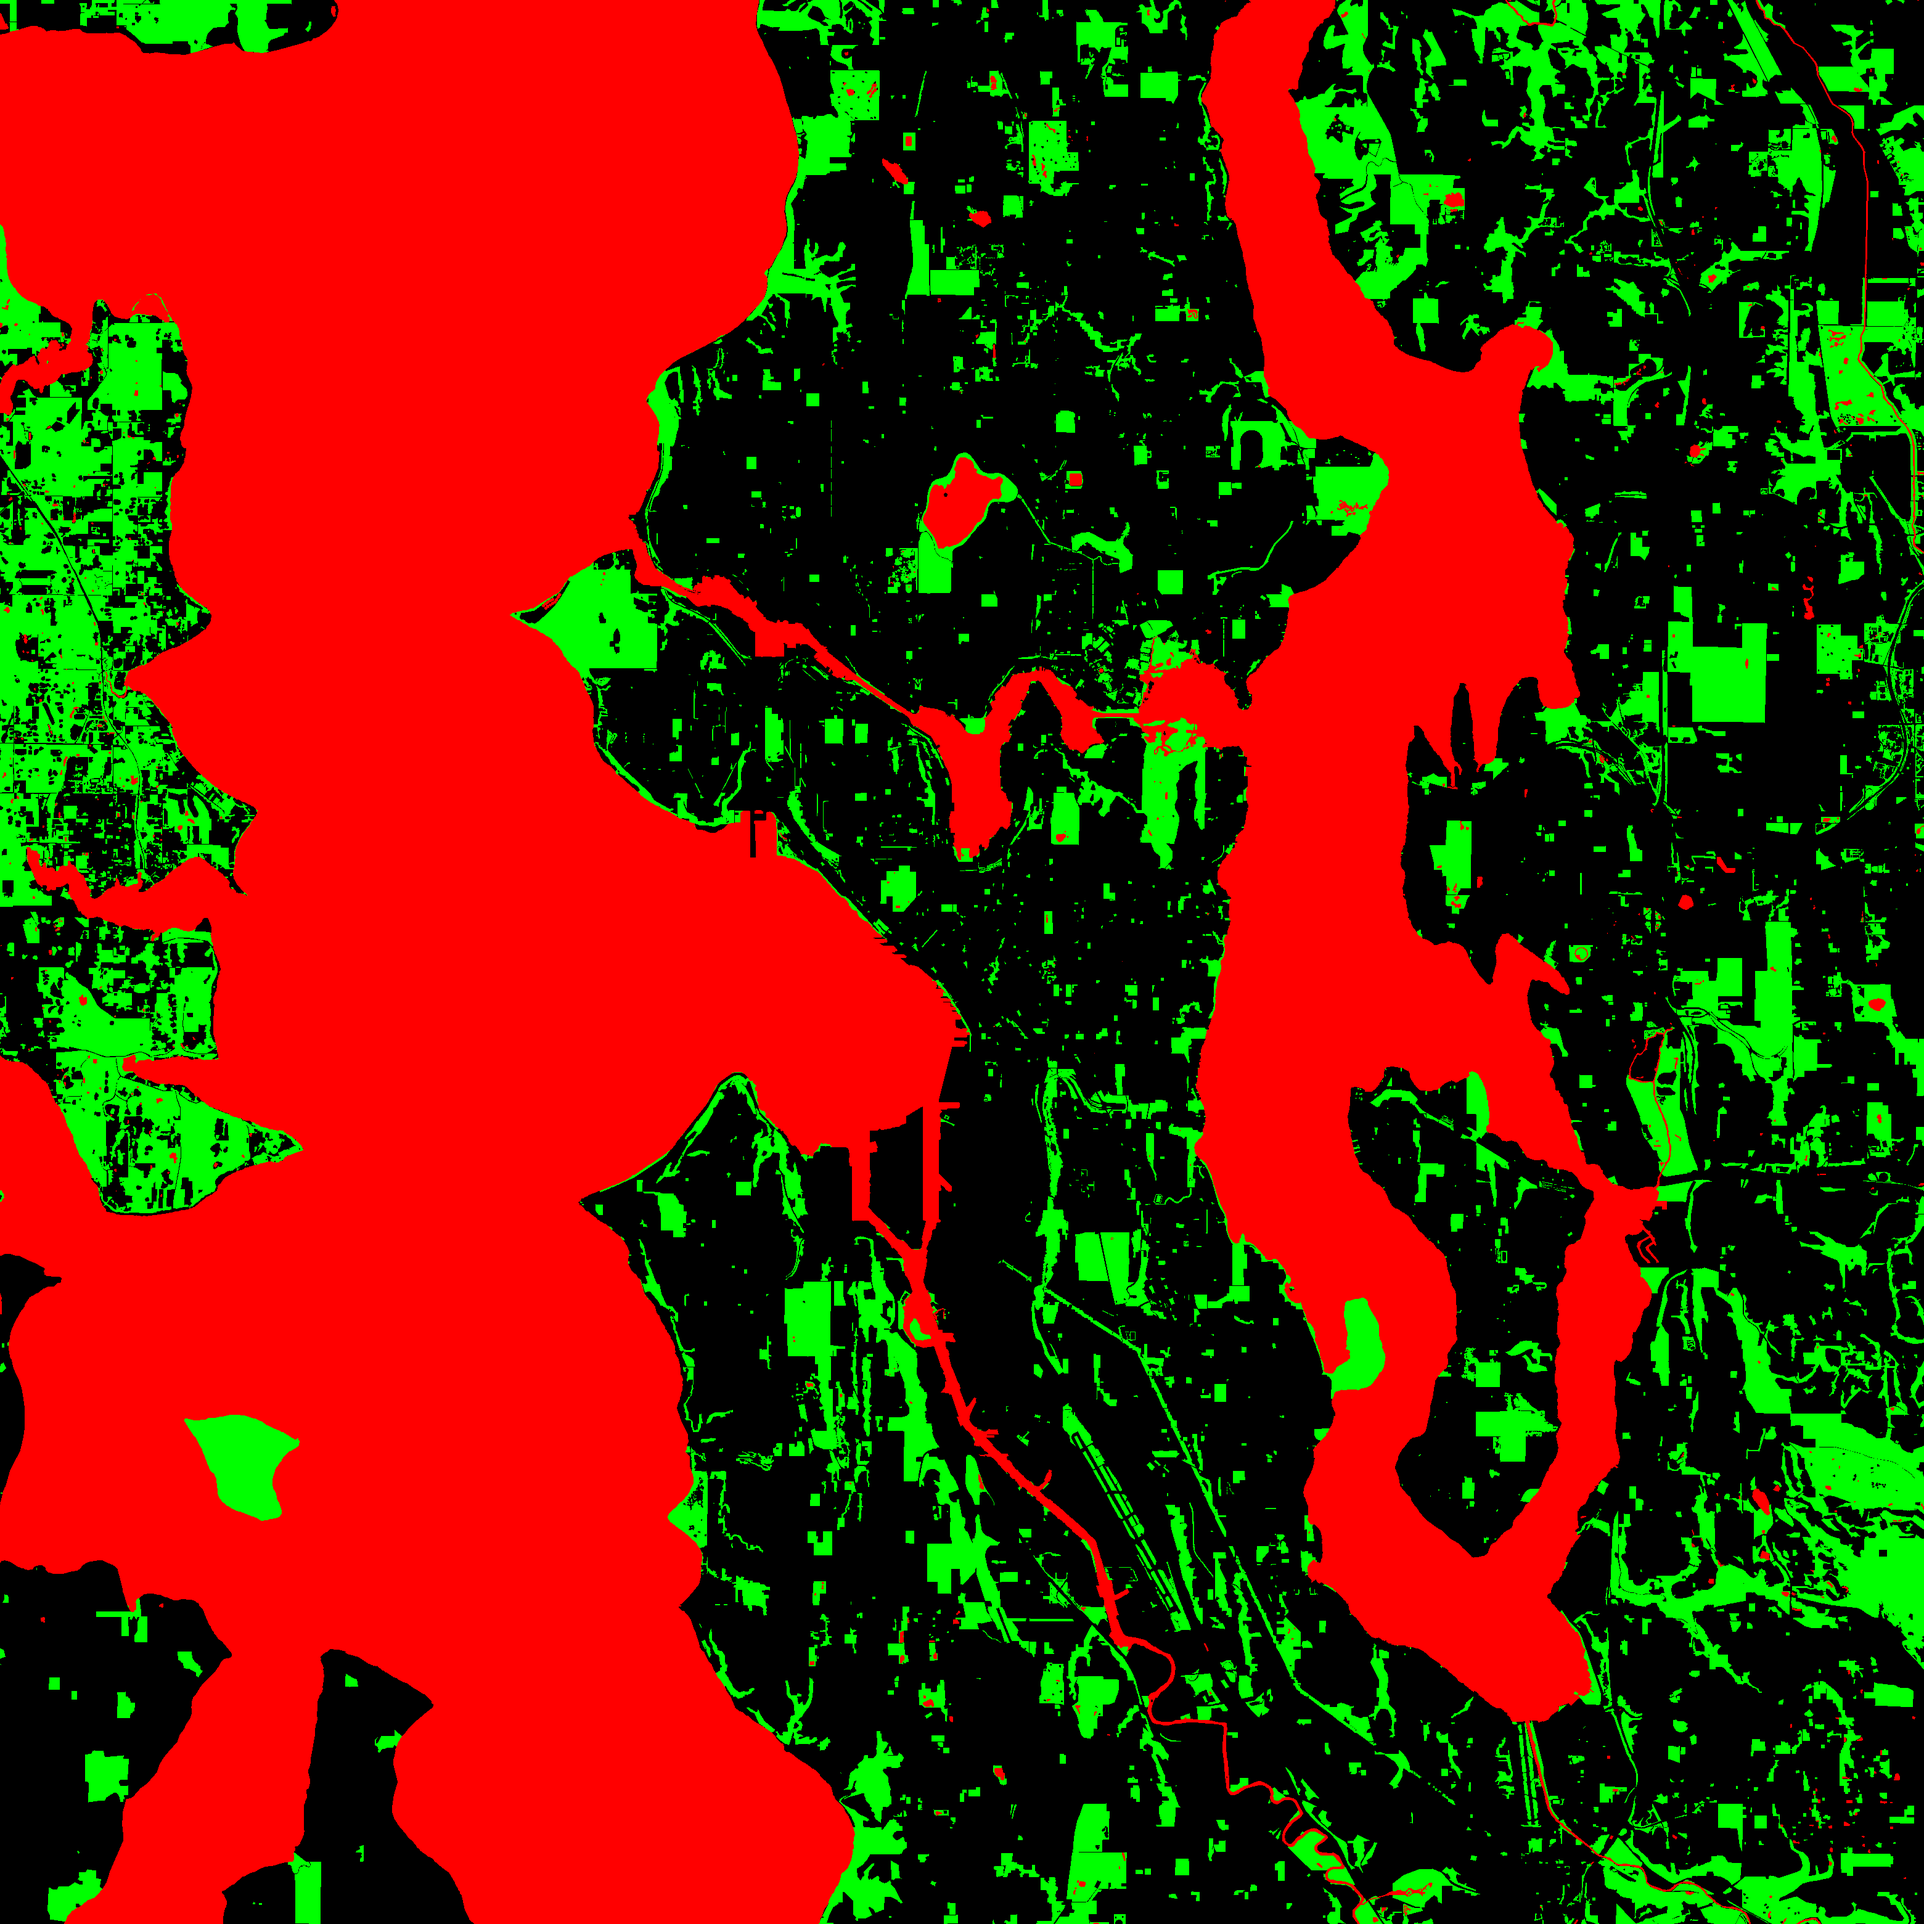
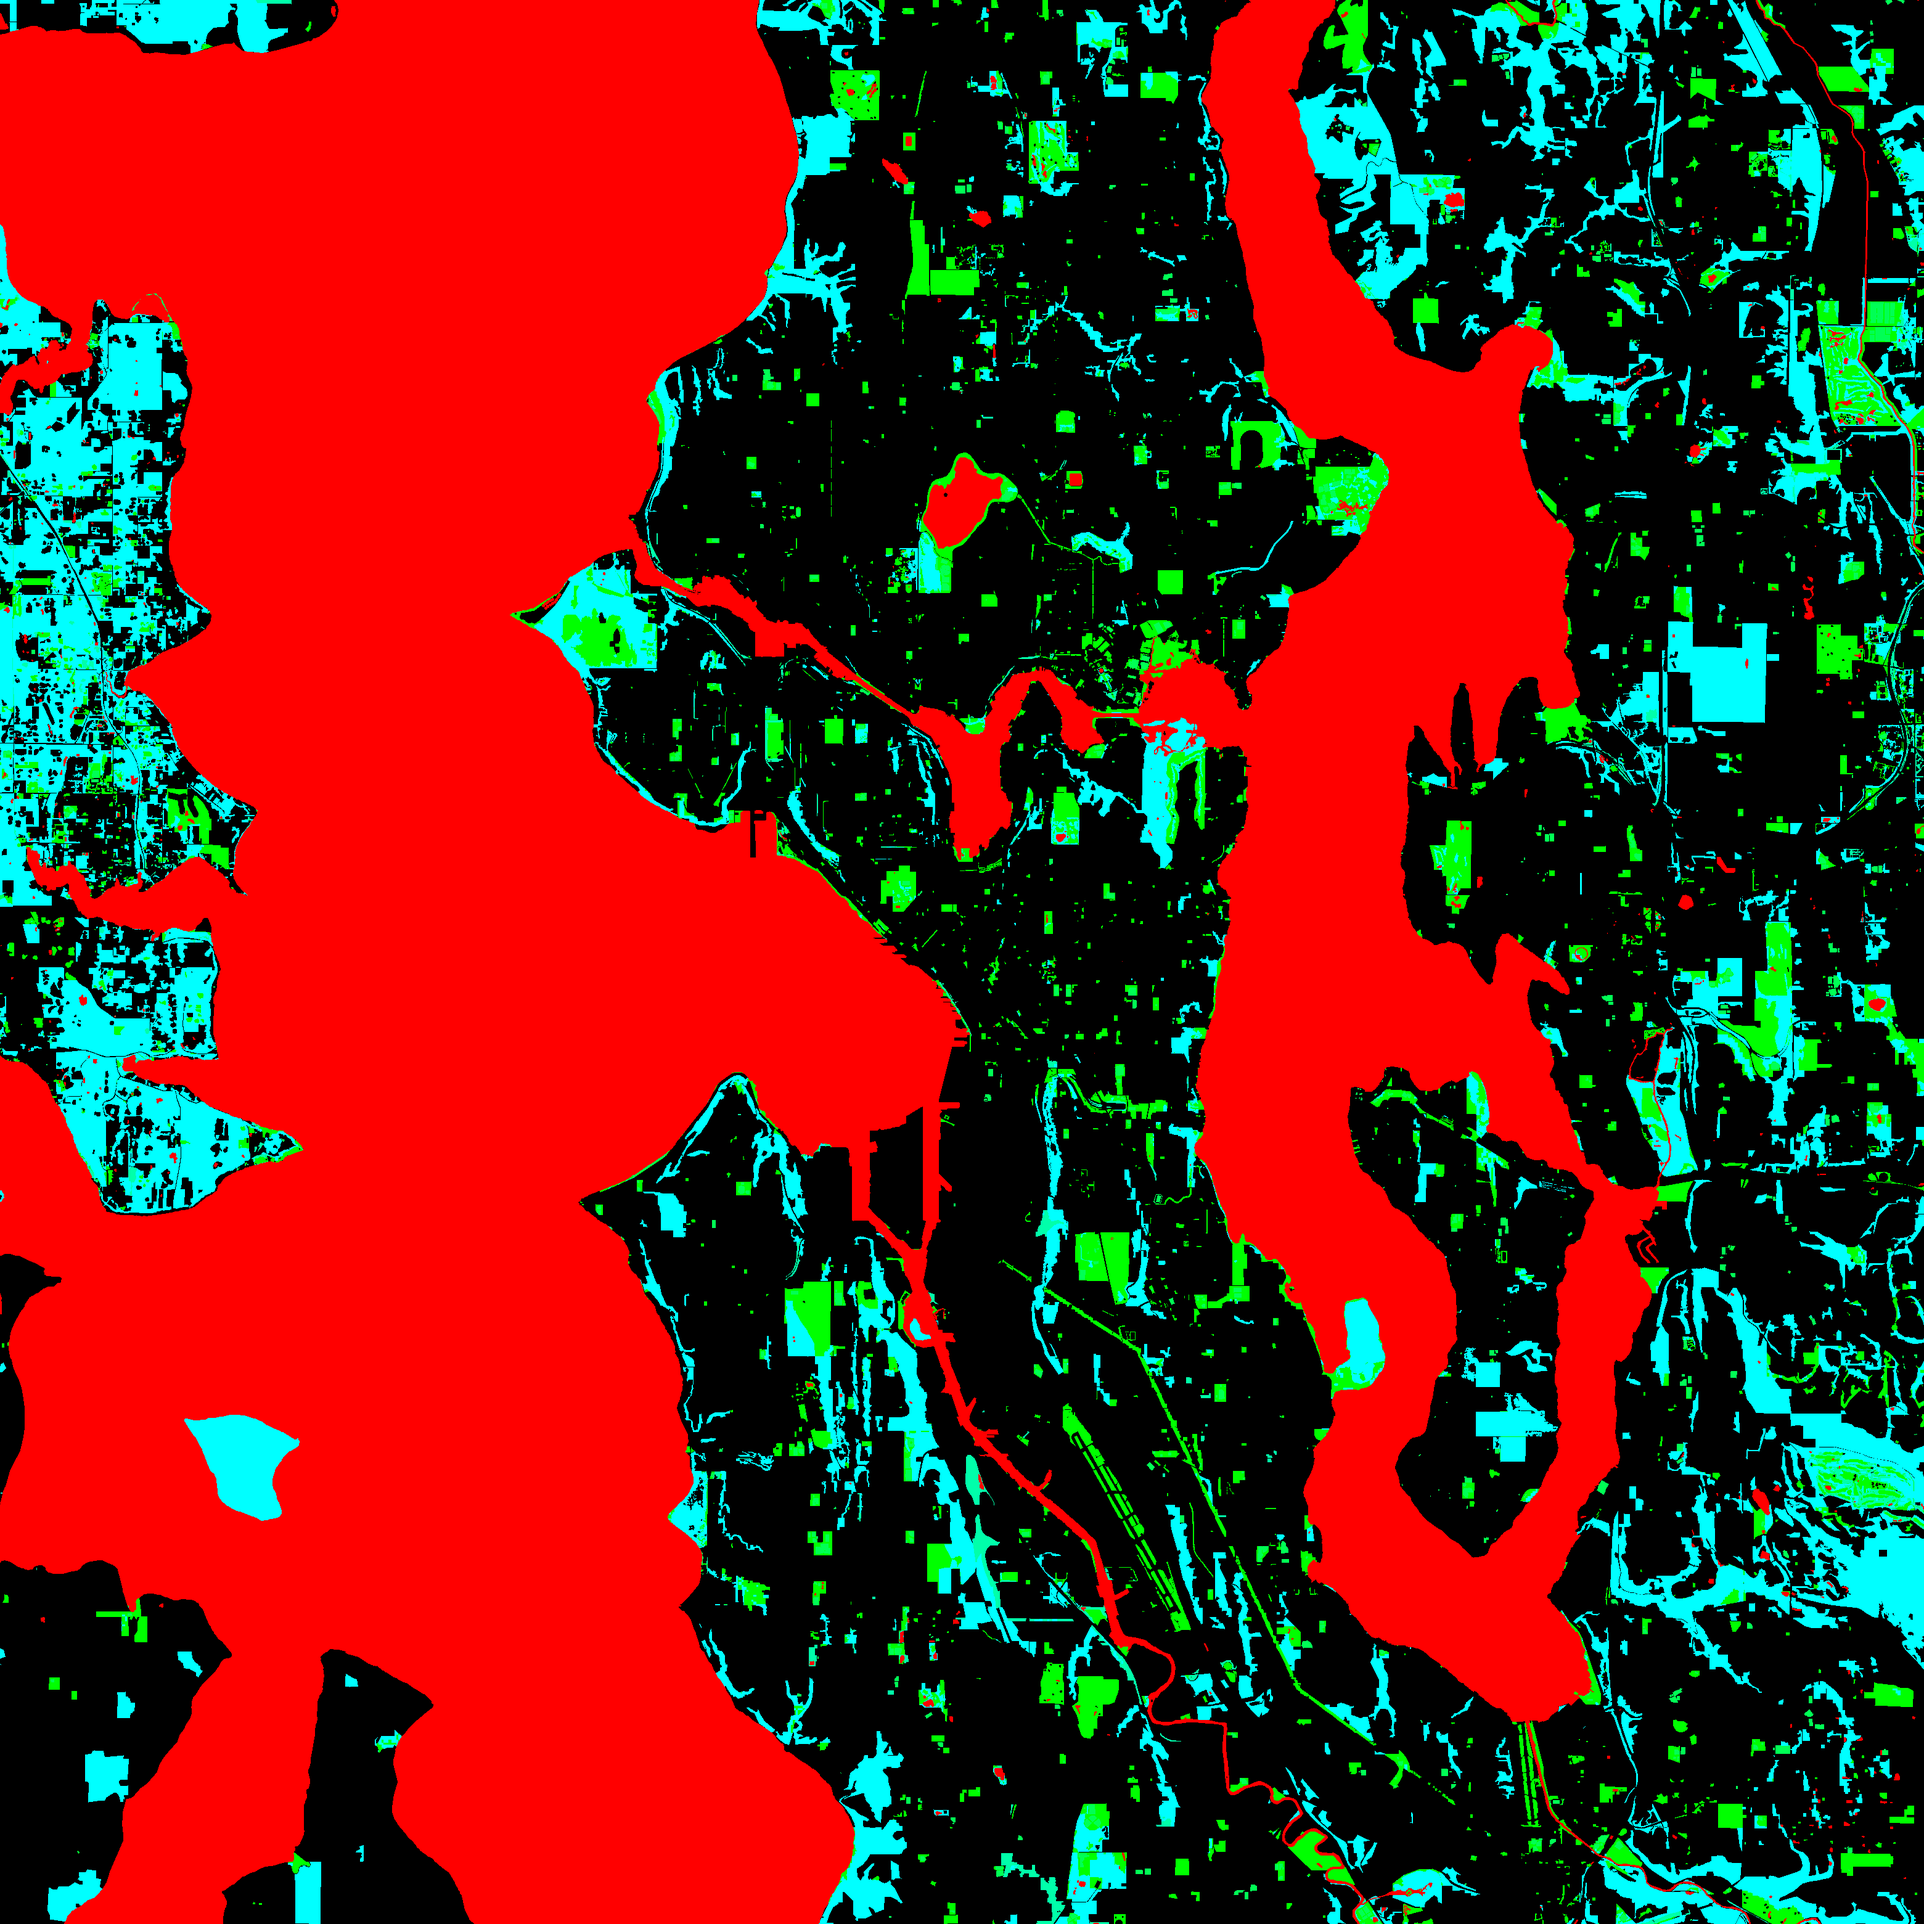
Auto: woodland in surface.png's blue channel (tools/build_wood.py)
OSM tags which greenspace is wood: natural=wood, landuse=forest, a
nature_reserve unless it is a wetland, parks named as woodland, the
Arboretum and Interlaken, and steep green ground. build_wood.py paints it
into surface.png's unused blue channel (255 wood, 170 scrub, 85 kept open:
pitches and beaches); R and G are byte-identical. mapdata folds it into the
green mask's value (1 lawn, 2 wood, 3 scrub, 4 open), so inPark and every
truthiness test are unchanged. surface.png 234 -> 331 KB.

Claude-Session: https://claude.ai/code/session_014EMTxRo2nvw4q1T1u5xemB

diff --git a/apps/auto/src/mapdata.js b/apps/auto/src/mapdata.js
@@ -123,7 +123,11 @@ export async function loadMapData(onStep) {
   const green = new Uint8Array(sp.w * sp.h);
   for (let i = 0, p = 0; i < water.length; i++, p += 4) {
     water[i] = sp.data[p] > 127 ? 1 : 0;
-    green[i] = sp.data[p + 1] > 127 ? 1 : 0;
+    // Green is non-zero; WHICH green rides in the value, from the blue
+    // channel (tools/build_wood.py): 1 lawn, 2 wood, 3 scrub, 4 kept open.
+    // Everything that only asks "is it green" tests for non-zero.
+    const b = sp.data[p + 2];
+    green[i] = sp.data[p + 1] > 127 ? (b > 212 ? 2 : b > 127 ? 3 : b > 42 ? 4 : 1) : 0;
   }
 
   // The lot layer: R = coverage of the sample's own cell by its code, G = the

diff --git a/tools/build_wood.py b/tools/build_wood.py
@@ -1,0 +1,133 @@
+"""Bake WHICH greenspace is woodland into surface.png's blue channel.
+
+  apps/auto/data/surface.png  B = 255 wood, 170 scrub, 85 kept open (pitches,
+                              beaches), 0 lawn / not green.  R and G untouched.
+
+The green mask (G) was binary: a forest and a mown lawn were the same raster,
+so Discovery Park -- 140 ha of Douglas fir and bigleaf maple -- was planted
+like a golf course. OSM does say which is which: every greenspace polygon
+osm_extract.py keeps carries its kind (`k`: wood, forest, scrub, park, pitch,
+nature_reserve...). This reads raw_green.json and paints:
+
+  wood   natural=wood, landuse=forest; a nature_reserve unless its name says
+         it is a wetland (round here a preserve is forest: Schmitz, Camp Long,
+         Gazzam Lake -- the exceptions are Union Bay's meadow and the sloughs);
+         a park NAMED as woodland (... Woods, Forest, Ravine, Greenbelt,
+         Natural Area, Preserve) or one of the few big wooded parks OSM maps as
+         bare `park` (the Arboretum, Interlaken); and STEEP green -- in Seattle a
+         park slope over ~14 degrees is a wooded ravine or bluff, not a lawn
+         (Discovery's sand bluff is a lot, and trees keep off lots anyway).
+  scrub  natural=scrub.
+  open   leisure=pitch, natural=beach: a playing field has no trees on it.
+
+Only where G is set (green, not water). Runs after build_raster.py, which
+writes surface.png with B = 0:
+
+    tools/.venv/bin/python tools/build_wood.py
+
+geo.js folds B into the green mask's value (1 lawn, 2 wood, 3 scrub, 4 open),
+so `inPark` is unchanged and the trees and the terrain shader can ask which.
+"""
+import json
+import os
+import re
+import sys
+
+import numpy as np
+from PIL import Image, ImageDraw
+
+sys.path.insert(0, os.path.dirname(os.path.abspath(__file__)))
+from proj import MAP_HALF  # noqa: E402
+
+HERE = os.path.dirname(os.path.abspath(__file__))
+DATA = os.path.join(HERE, "data")
+OUT = os.environ.get("AUTO_DATA_OUT") or os.path.join(HERE, "..", "apps", "auto", "data")
+SRC = os.path.join(HERE, "..", "apps", "auto", "data")
+MASK_STEP = 10
+MASK_N = (MAP_HALF * 2) // MASK_STEP + 1
+HF_STEP = 40
+
+WOOD_KINDS = {"wood", "forest"}
+WOODED_NAME = re.compile(r"\b(woods?|forest|ravine|greenbelt|natural area|preserve|arboretum)\b|^interlaken park$", re.I)
+NOT_WOOD_NAME = re.compile(r"wetland|slough|marsh|pond|meadow|farm|union bay", re.I)
+# A park slope steeper than this (rise over run, ~14 deg) is wooded.
+STEEP = 0.25
+
+
+def is_wood(p):
+    k, n = p.get("k"), p.get("n") or ""
+    if k in WOOD_KINDS:
+        return True
+    if k == "nature_reserve":
+        return not NOT_WOOD_NAME.search(n)
+    if k in ("park", "garden", "recreation_ground") and n:
+        return bool(WOODED_NAME.search(n)) and not NOT_WOOD_NAME.search(n)
+    return False
+
+
+def paint(polys):
+    im = Image.new("L", (MASK_N, MASK_N), 0)
+    d = ImageDraw.Draw(im)
+    tx = lambda pts: [((x + MAP_HALF) / MASK_STEP, (z + MAP_HALF) / MASK_STEP) for x, z in pts]
+    for p in polys:
+        d.polygon(tx(p["o"]), fill=255)
+        for h in p.get("h", []):
+            d.polygon(tx(h), fill=0)
+    return np.asarray(im) > 0
+
+
+def main():
+    green = json.load(open(os.path.join(DATA, "raw_green.json")))["green"]
+    surf = np.array(Image.open(os.path.join(SRC, "surface.png")).convert("RGB"))
+    assert surf.shape[0] == MASK_N, f"surface.png is {surf.shape[0]} wide, expected {MASK_N}"
+    grn = surf[:, :, 1] > 127
+
+    wood = paint([p for p in green if is_wood(p)])
+    scrub = paint([p for p in green if p.get("k") == "scrub"])
+    open_ = paint([p for p in green if p.get("k") in ("pitch", "beach")])
+
+    # Steep green: the slope of the shipped 40 m heightfield, read at each
+    # 10 m cell's nearest height sample.
+    hp = np.array(Image.open(os.path.join(SRC, "height.png")).convert("RGB")).astype(np.float64)
+    h = ((hp[:, :, 0] * 256) + hp[:, :, 1]) / 10 - 100
+    gz, gx = np.gradient(h, HF_STEP)
+    slope = np.hypot(gx, gz)
+    idx = np.clip(np.round(np.arange(MASK_N) * MASK_STEP / HF_STEP).astype(int), 0, h.shape[0] - 1)
+    steep = slope[np.ix_(idx, idx)] > STEEP
+    steep &= h[np.ix_(idx, idx)] > 2.0   # not the shore band
+
+    b = np.zeros((MASK_N, MASK_N), dtype=np.uint8)
+    b[grn & scrub] = 170
+    b[grn & (wood | (steep & ~open_))] = 255
+    b[grn & open_ & ~wood] = 85
+    surf[:, :, 2] = b
+    Image.fromarray(surf, "RGB").save(os.path.join(OUT, "surface.png"), optimize=True)
+
+    cell = MASK_STEP * MASK_STEP / 1e6
+    print(f"wood {np.count_nonzero(b == 255) * cell:.1f} km2 (tagged {np.count_nonzero(grn & wood) * cell:.1f}, "
+          f"steep green {np.count_nonzero(grn & steep & ~wood & ~open_) * cell:.1f}), "
+          f"scrub {np.count_nonzero(b == 170) * cell:.1f}, open {np.count_nonzero(b == 85) * cell:.1f}, "
+          f"lawn {np.count_nonzero(grn & (b == 0)) * cell:.1f} km2")
+    # Probes: a named park's share of wood, against what it is. Asserted, like
+    # the raster's own probes -- believe these over a screenshot.
+    probes = [("Discovery Park", 0.55), ("Seward Park", 0.6), ("Schmitz Preserve Park", 0.9),
+              ("Carkeek Park", 0.85), ("Washington Park Arboretum", 0.8), ("Camp Long", 0.9),
+              ("Interlaken Park", 0.8), ("Lincoln Park", 0.6)]
+    bad = 0
+    for name, want in probes:
+        m = paint([p for p in green if p.get("n") == name])
+        share = np.count_nonzero(m & (b == 255)) / max(1, np.count_nonzero(m & grn))
+        ok = share >= want
+        bad += not ok
+        print(f"  {'ok  ' if ok else 'FAIL'} {name}: {share * 100:.0f} % wood (want >= {want * 100:.0f} %)")
+    for name in ("Green Lake Park", "Jefferson Park", "Woodland Park", "Volunteer Park", "Cal Anderson Park"):
+        m = paint([p for p in green if p.get("n") == name])
+        if np.count_nonzero(m):
+            print(f"       {name}: {np.count_nonzero(m & (b == 255)) * 100 / max(1, np.count_nonzero(m & grn)):.0f} % wood, "
+                  f"{np.count_nonzero(m & (b == 85)) * 100 / max(1, np.count_nonzero(m & grn)):.0f} % open")
+    if bad:
+        sys.exit(1)
+
+
+if __name__ == "__main__":
+    main()
